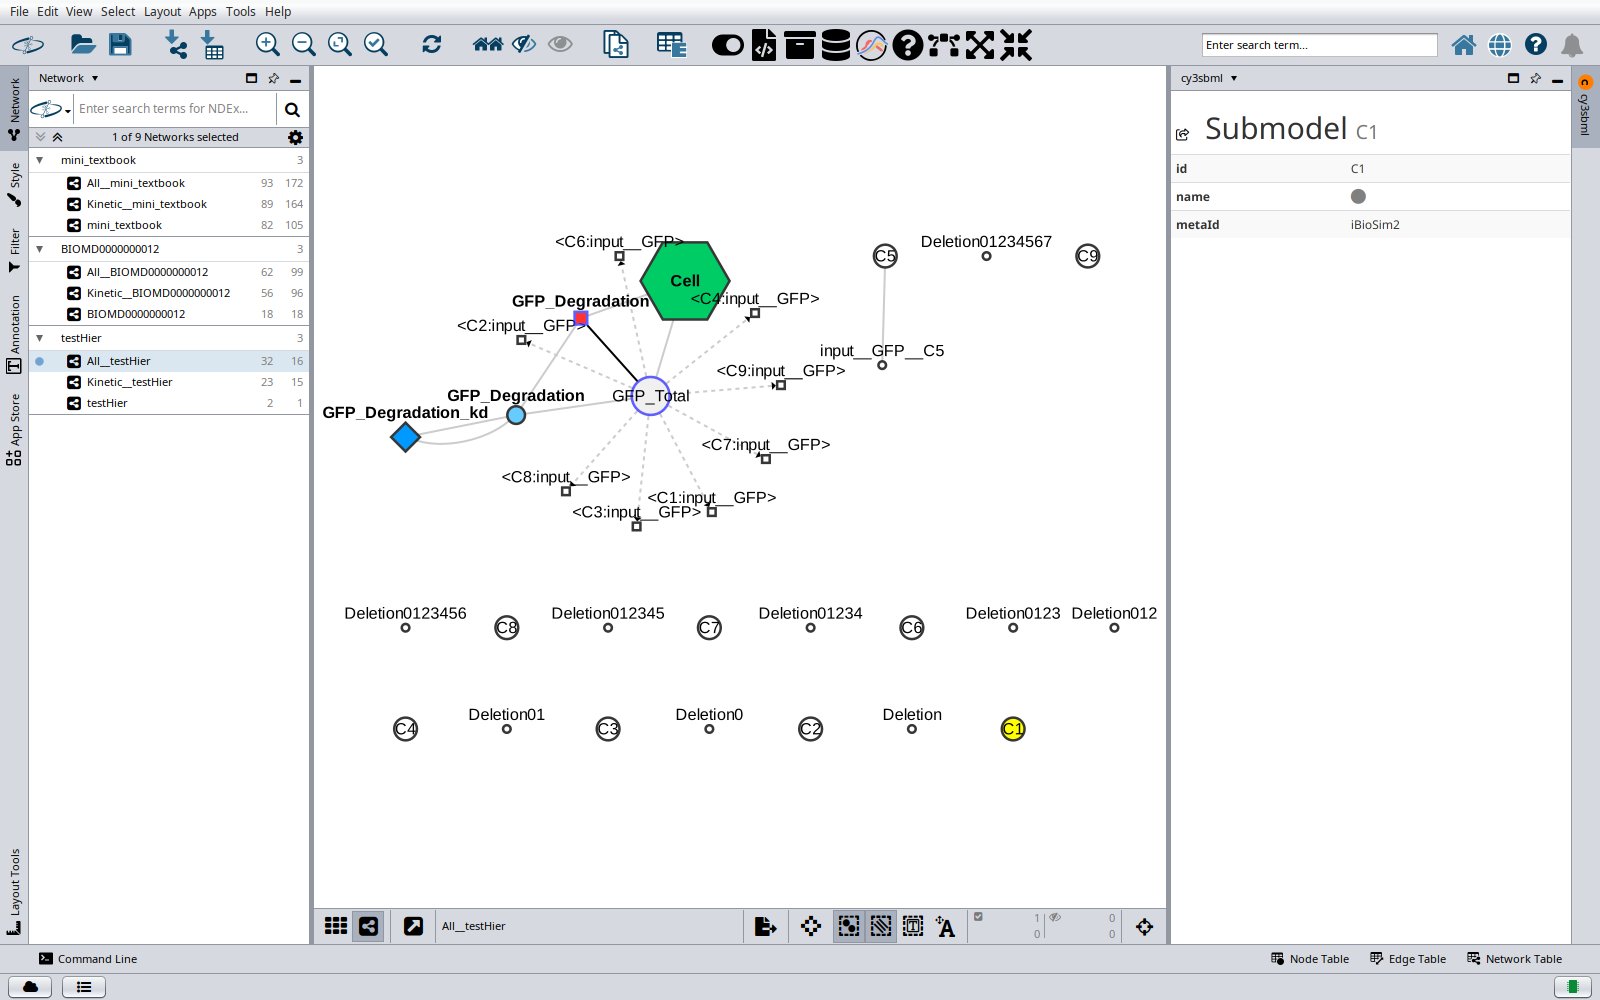
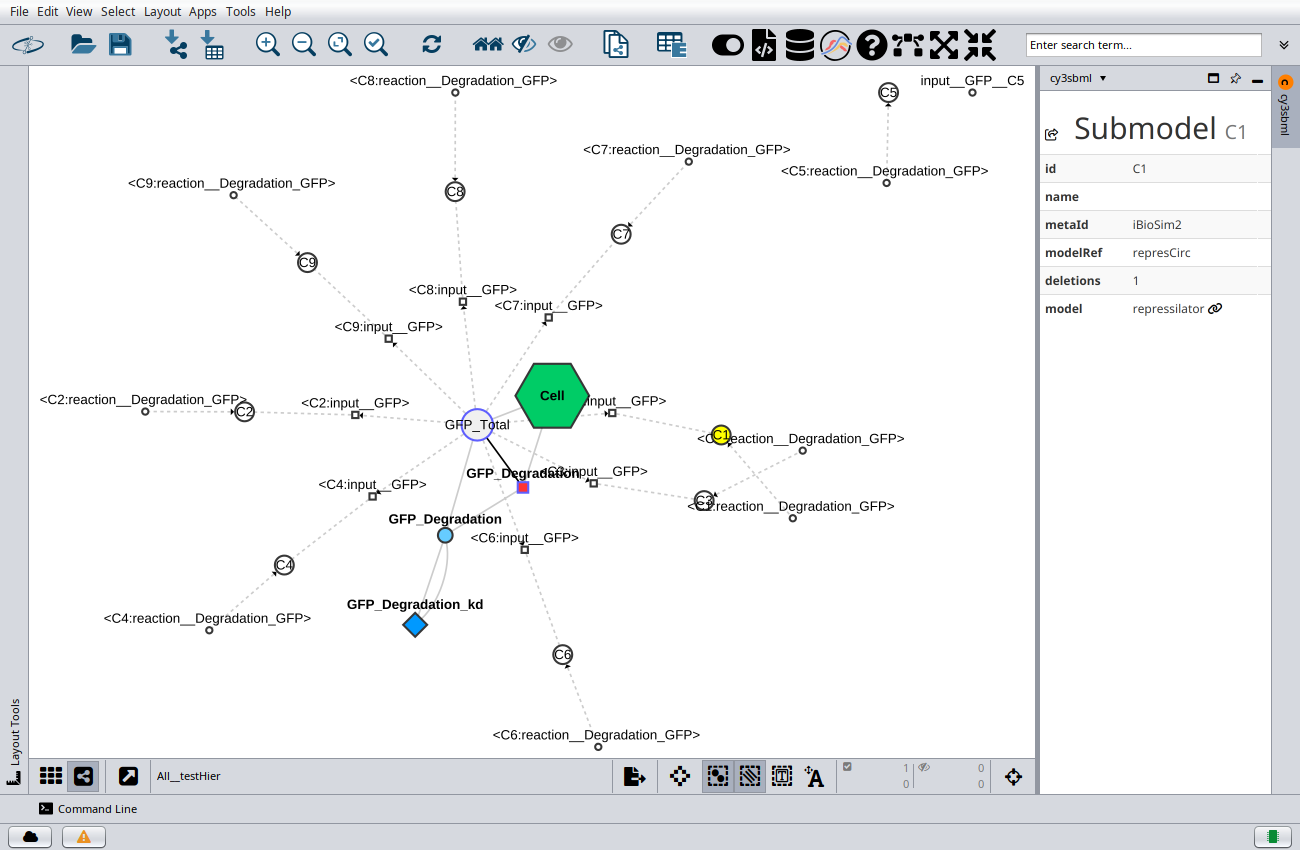
Polish the comp info panel and the labels of deletions
Found in Cytoscape: the comp tables showed an empty row for every unset
reference kind and attribute, and long headings and metaids (ReplacedElement)
widened the narrow panel with a horizontal scroll bar. The tables show only
the set attributes, with their SBML names, and long text wraps. Deletions
without id and name were all labeled "Deletion"; they get the label
<submodel:reference> like replaced elements. New screenshot of a comp model.

diff --git a/src/main/resources/gui/css/cy3sbml.css b/src/main/resources/gui/css/cy3sbml.css
@@ -6,6 +6,13 @@ table {
     font-size: 11px;
 }
 
+/* long ids and headings (e.g. ReplacedElement) wrap instead of widening the narrow panel */
+h1, h2, h3, h4, td, th {
+    word-wrap: break-word;
+    overflow-wrap: break-word;
+    word-break: break-word;
+}
+
 .ontology{
     background-color: #5FBDCE;
     padding:2px;

diff --git a/src/main/java/org/cy3sbml/util/SBMLUtil.java b/src/main/java/org/cy3sbml/util/SBMLUtil.java
@@ -768,50 +768,60 @@ public class SBMLUtil {
      */
     public static Map<String, String> createSubmodelMap(Submodel submodel, SBaseRefResolver resolver) {
         Map<String, String> map = createNamedSBaseMap(submodel);
-        map.put(SBML.ATTR_COMP_MODELREF, submodel.isSetModelRef() ? submodel.getModelRef() : UNSET);
-        map.put(
-                SBML.ATTR_COMP_TIME_CONVERSION_FACTOR,
-                submodel.isSetTimeConversionFactor() ? submodel.getTimeConversionFactor() : UNSET);
-        map.put(
-                SBML.ATTR_COMP_EXTENT_CONVERSION_FACTOR,
-                submodel.isSetExtentConversionFactor() ? submodel.getExtentConversionFactor() : UNSET);
+        putIfSet(map, "modelRef", submodel.isSetModelRef() ? submodel.getModelRef() : null);
+        putIfSet(
+                map,
+                "timeConversionFactor",
+                submodel.isSetTimeConversionFactor() ? submodel.getTimeConversionFactor() : null);
+        putIfSet(
+                map,
+                "extentConversionFactor",
+                submodel.isSetExtentConversionFactor() ? submodel.getExtentConversionFactor() : null);
         map.put("deletions", Integer.toString(submodel.getDeletionCount()));
         if (resolver != null) {
-            ModelResolution resolution = resolver.models().resolve(submodel);
-            map.put("model", modelHtml(resolution));
+            map.put("model", modelHtml(resolver.models().resolve(submodel)));
         }
         return map;
     }
 
     /**
-     * Map of a port, deletion, replaced element or replaced by: the reference, and its
-     * target with a link to the node in the network of the target model.
+     * Map of a port, deletion, replaced element or replaced by: the attributes that are
+     * set, the chain of the reference, and its target with a link to the node in the
+     * network of the target model.
      *
      * @param resolver resolves the target, may be null
      */
     public static Map<String, String> createSBaseRefMap(SBaseRef ref, SBaseRefResolver resolver) {
         Map<String, String> map = ref instanceof NamedSBase named ? createNamedSBaseMap(named) : createSBaseMap(ref);
         if (ref instanceof ReplacedElement replacedElement) {
-            map.put(
-                    SBML.ATTR_COMP_SUBMODELREF,
-                    replacedElement.isSetSubmodelRef() ? replacedElement.getSubmodelRef() : UNSET);
-            map.put(
-                    SBML.ATTR_COMP_CONVERSION_FACTOR,
-                    replacedElement.isSetConversionFactor() ? replacedElement.getConversionFactor() : UNSET);
-            map.put(SBML.ATTR_COMP_DELETION, replacedElement.isSetDeletion() ? replacedElement.getDeletion() : UNSET);
+            putIfSet(map, "submodelRef", replacedElement.isSetSubmodelRef() ? replacedElement.getSubmodelRef() : null);
+            putIfSet(
+                    map,
+                    "conversionFactor",
+                    replacedElement.isSetConversionFactor() ? replacedElement.getConversionFactor() : null);
+            putIfSet(map, "deletion", replacedElement.isSetDeletion() ? replacedElement.getDeletion() : null);
         } else if (ref instanceof ReplacedBy replacedBy) {
-            map.put(SBML.ATTR_COMP_SUBMODELREF, replacedBy.isSetSubmodelRef() ? replacedBy.getSubmodelRef() : UNSET);
+            putIfSet(map, "submodelRef", replacedBy.isSetSubmodelRef() ? replacedBy.getSubmodelRef() : null);
         }
-        map.put(SBML.ATTR_COMP_PORTREF, ref.isSetPortRef() ? ref.getPortRef() : UNSET);
-        map.put(SBML.ATTR_COMP_IDREF, ref.isSetIdRef() ? ref.getIdRef() : UNSET);
-        map.put(SBML.ATTR_COMP_UNITREF, ref.isSetUnitRef() ? ref.getUnitRef() : UNSET);
-        map.put(SBML.ATTR_COMP_METAIDREF, ref.isSetMetaIdRef() ? ref.getMetaIdRef() : UNSET);
-        map.put(SBML.ATTR_COMP_SBASEREF, HtmlUtil.escape(SBaseRefResolver.describe(ref)));
+        putIfSet(map, "portRef", ref.isSetPortRef() ? ref.getPortRef() : null);
+        putIfSet(map, "idRef", ref.isSetIdRef() ? ref.getIdRef() : null);
+        putIfSet(map, "unitRef", ref.isSetUnitRef() ? ref.getUnitRef() : null);
+        putIfSet(map, "metaIdRef", ref.isSetMetaIdRef() ? ref.getMetaIdRef() : null);
+        if (ref.isSetSBaseRef() || map.containsKey("submodelRef")) {
+            map.put("reference", HtmlUtil.escape(SBaseRefResolver.describe(ref)));
+        }
         boolean replacesDeletion = ref instanceof ReplacedElement re && re.isSetDeletion();
         if (resolver != null && !replacesDeletion) {
             map.put("target", targetHtml(resolver.resolve(ref)));
         }
         return map;
+    }
+
+    /** Puts the escaped value if it is set (not null and not empty). */
+    private static void putIfSet(Map<String, String> map, String key, String value) {
+        if (value != null && !value.isEmpty()) {
+            map.put(key, HtmlUtil.escape(value));
+        }
     }
 
     /**

diff --git a/src/test/java/org/cy3sbml/util/SBMLUtilTest.java b/src/test/java/org/cy3sbml/util/SBMLUtilTest.java
@@ -473,7 +473,7 @@ class SBMLUtilTest {
     }
 
     @Test
-    void createPortMapIncludesRefs() {
+    void createPortMapIncludesTheSetRefs() {
         Port port = new Port("port1", 3, 1);
         port.setPortRef("portRef1");
         port.setIdRef("idRef1");
@@ -482,10 +482,14 @@ class SBMLUtilTest {
 
         Map<String, String> map = SBMLUtil.createSBaseRefMap(port, null);
 
-        assertEquals("portRef1", map.get(SBML.ATTR_COMP_PORTREF));
-        assertEquals("idRef1", map.get(SBML.ATTR_COMP_IDREF));
-        assertEquals("unitRef1", map.get(SBML.ATTR_COMP_UNITREF));
-        assertEquals("metaIdRef1", map.get(SBML.ATTR_COMP_METAIDREF));
+        assertEquals("portRef1", map.get("portRef"));
+        assertEquals("idRef1", map.get("idRef"));
+        assertEquals("unitRef1", map.get("unitRef"));
+        assertEquals("metaIdRef1", map.get("metaIdRef"));
+
+        Port unset = new Port("port2", 3, 1);
+        unset.setIdRef("idRef2");
+        assertEquals(null, SBMLUtil.createSBaseRefMap(unset, null).get("portRef"));
     }
 
     @Test

diff --git a/src/test/java/org/cy3sbml/reader/CompReaderTest.java b/src/test/java/org/cy3sbml/reader/CompReaderTest.java
@@ -181,4 +181,17 @@ class CompReaderTest {
                 targets(network, port, SBML.INTERACTION_COMP_SBASEREF_ID));
         assertEquals(SBML.COMP_RESOLVED, attribute(network, port, SBML.ATTR_COMP_RESOLUTION));
     }
+
+    /** A deletion without id and name is labeled with its submodel and reference. */
+    @Test
+    void deletionWithoutIdIsLabeledWithItsReference() throws Exception {
+        ConversionContext context = ReaderTestSupport.readResource(
+                "/models/comp/Watanabe2014/test_replacement_1.xml", new CoreReader(), new CompReader());
+        CyNetwork network = context.network();
+
+        List<CyNode> deletions = ReaderTestSupport.nodesOfType(network, SBML.NODETYPE_COMP_DELETION);
+
+        assertEquals(1, deletions.size());
+        assertTrue(attribute(network, deletions.get(0), SBML.LABEL).startsWith("<C1:"));
+    }
 }

diff --git a/src/main/java/org/cy3sbml/reader/CompReader.java b/src/main/java/org/cy3sbml/reader/CompReader.java
@@ -67,6 +67,14 @@ final class CompReader implements PackageReader {
                 AttributeWriter.setNamedSBaseAttributes(network, deletionNode, deletion);
                 context.createEdge(node, deletionNode, SBML.INTERACTION_COMP_SBASE_DELETION);
                 writeTarget(context, model, deletionNode, deletion);
+                if (!deletion.isSetId() && !deletion.isSetName()) {
+                    // label deletions without id and name like replaced elements
+                    setString(
+                            network,
+                            deletionNode,
+                            SBML.LABEL,
+                            String.format("<%s:%s>", submodel.getId(), reference(deletion)));
+                }
             }
         }
     }

diff --git a/docs/guide/packages.md b/docs/guide/packages.md
@@ -80,7 +80,7 @@ cy3sbml supports the comp package version 1 release 3.
 | ReplacedBy (`submodelRef`, SBaseRef) | node `comp_replacedBy` with `comp_submodelRef` and the target columns |
 | SBase (list of replaced elements, replaced by) | on every element |
 
-![The All network of a comp test model with submodels, deletions and replaced elements](../images/screenshots/comp-model.png)
+![The All network of a comp test model: nine submodels with their deletions, the replaced elements linked to their submodels, and the info panel of the submodel C1 with the link to the network of its model](../images/screenshots/comp-model.png)
 
 ## groups
 
